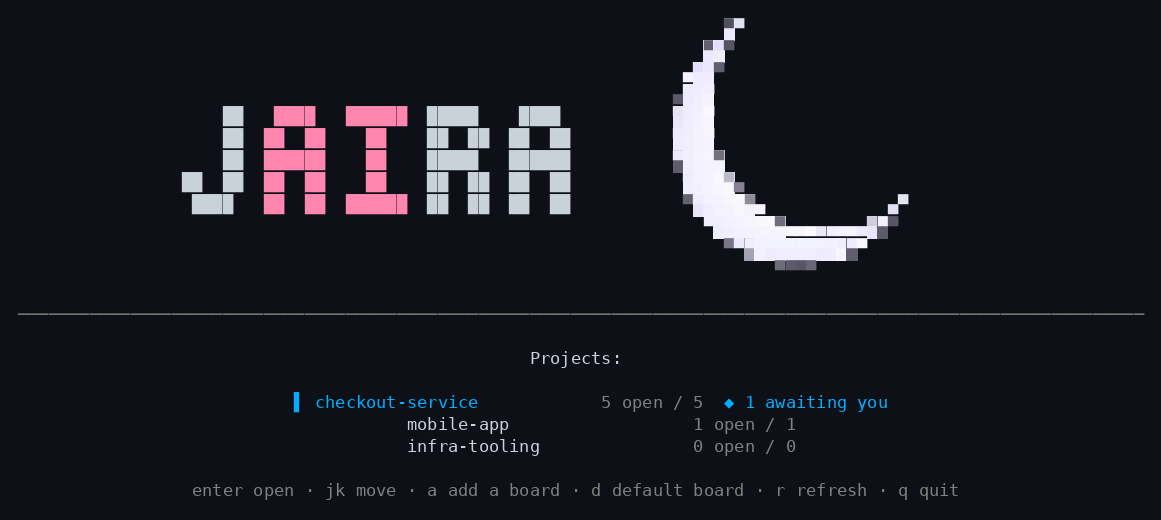
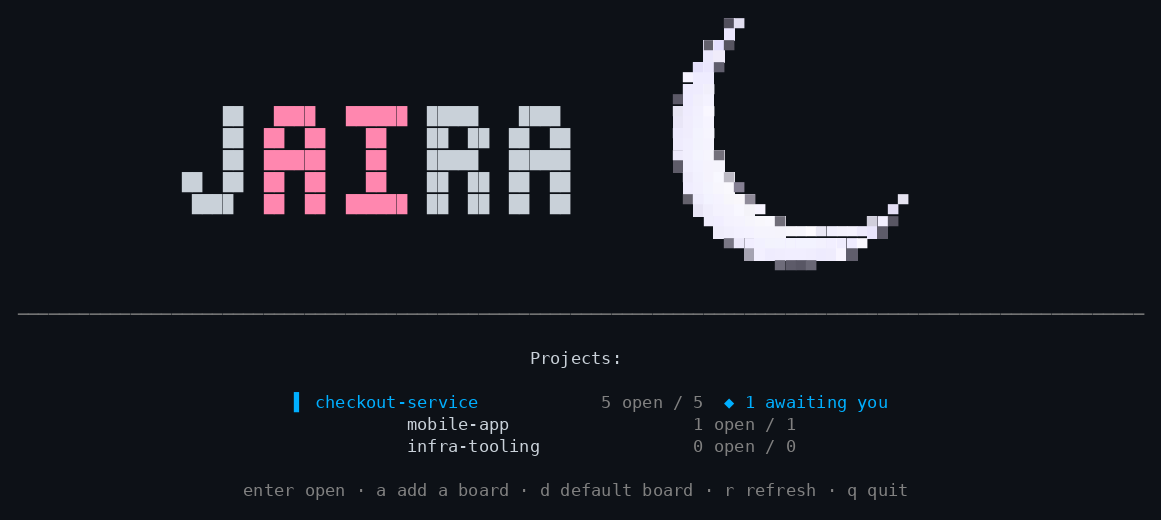
fix: the launcher and settings footers stop teaching movement too

Changed region(s): [[0.155, 0.9231, 0.8372, 0.9538]]

diff --git a/internal/tui/defaultboard.go b/internal/tui/defaultboard.go
@@ -217,7 +217,7 @@ func (d *defaultBoardScreen) render(width, height int) string {
 		sb.WriteString("\n" + style.Render(truncate(d.msg, w)) + "\n")
 	}
 	sb.WriteString("\n" + styMeta.Render(truncate(
-		"jk move · tab switch list · space toggle · e edit file · s save · esc back "+
+		"tab switch list · space toggle · e edit file · s save · esc back "+
 			"(selects lanes, does not reorder them)", w)))
 	return sb.String()
 }

diff --git a/internal/tui/settings.go b/internal/tui/settings.go
@@ -82,6 +82,6 @@ func (s *settingsScreen) render(width, height int) string {
 		sb.WriteString(truncate("      "+styMeta.Render(e.desc), w) + "\n")
 	}
 
-	sb.WriteString("\n" + styMeta.Render(truncate("jk move · enter open · esc back", w)))
+	sb.WriteString("\n" + styMeta.Render(truncate("enter open · esc back", w)))
 	return sb.String()
 }

diff --git a/internal/tui/home.go b/internal/tui/home.go
@@ -327,7 +327,7 @@ func (h *Home) render() string {
 	}
 
 	b.WriteString("\n" + centre.Render(styMeta.Render(truncate(
-		"enter open · jk move · a add a board · d default board · r refresh · q quit", h.width))))
+		"enter open · a add a board · d default board · r refresh · q quit", h.width))))
 	return b.String()
 }
 

diff --git a/docs/COMMANDS.md b/docs/COMMANDS.md
@@ -115,7 +115,7 @@ E         edit the selected lane in $EDITOR (a built-in gets an override copy fi
 esc       back
 ```
 
-Home screen: `enter` open · `jk` move · `a` add a board · `r` refresh · `q` quit.
+Home screen: `enter` open · `a` add a board · `r` refresh · `q` quit.
 In the picker: `a` add · `i` create a board here · `s` scan two levels · `space`
 toggle a result · `enter` add what is selected.
 
